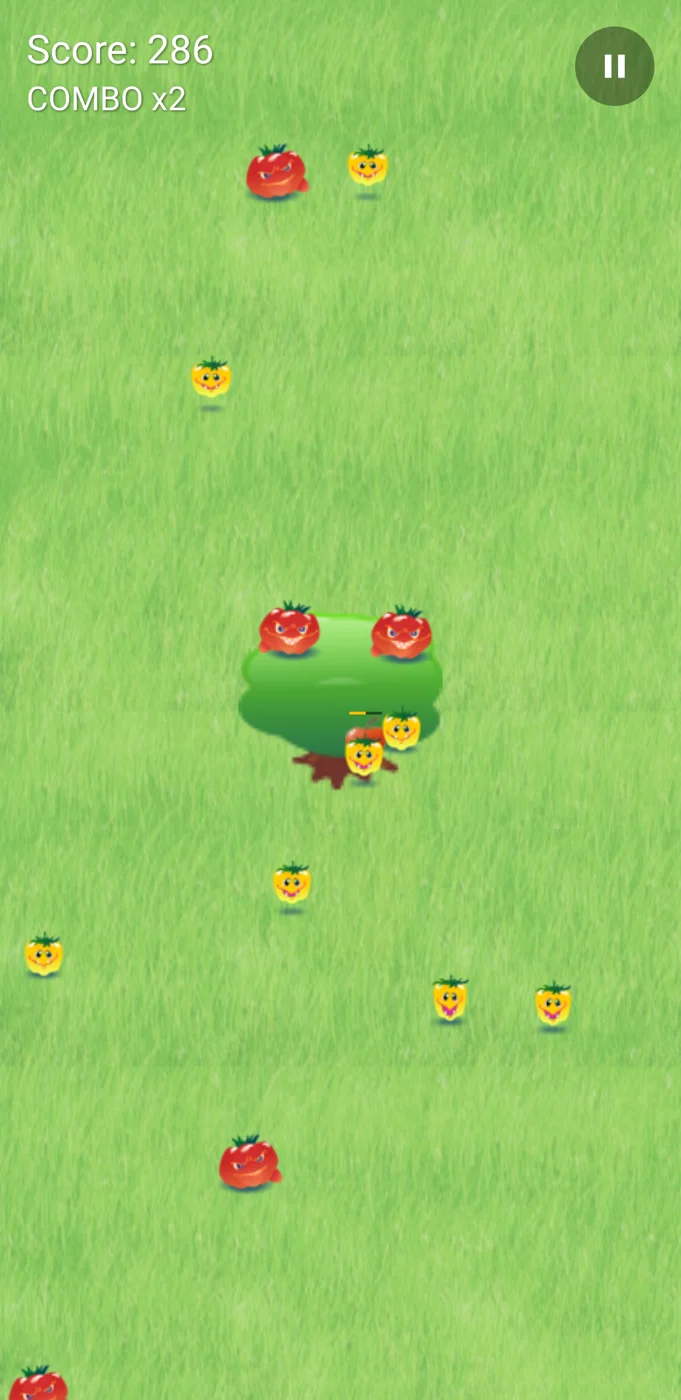
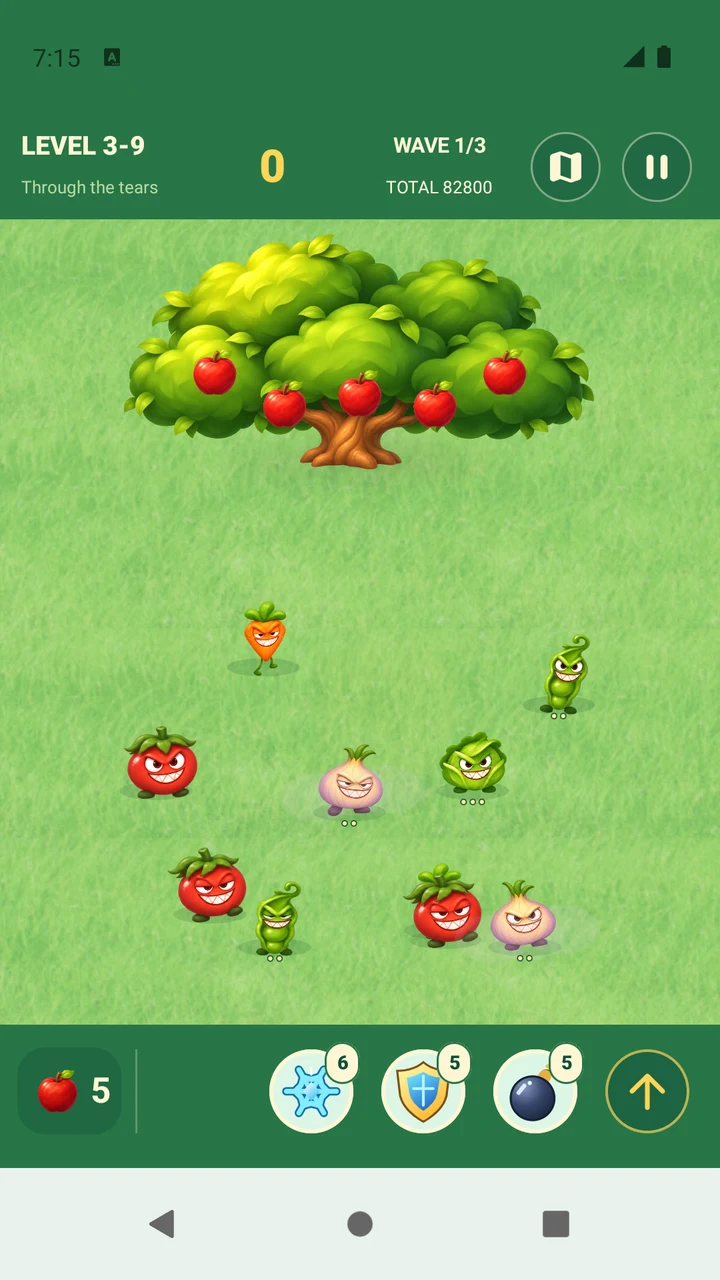
updates for angry vegetables project

diff --git a/index.html b/index.html
@@ -1,2 +1,2 @@
 <!doctype html>
-<html lang="en"><head><meta charset="utf-8"><meta name="viewport" content="width=device-width, initial-scale=1"><title>Small apps. Everyday joy. — Apps by Nadya</title><meta name="description" content="Explore Purrfect Cat Tangle, Magic Garden: Picture Puzzles, FitMe, Angry Vegetables, Tvoj Bazar and Cute Animal Tile Puzzle. Mobile apps and games by independent developer Nadya Bryzgalova."><meta name="theme-color" content="#f8f7f2"><link rel="icon" type="image/svg+xml" href="assets/favicon.svg"><link rel="stylesheet" href="style.css"></head><body><a class="skip" href="#main">Skip to content</a><header class="wrap header"><a class="brand" href="index.html"><span class="brand-mark">n.</span> apps by nadya<span class="brand-dot">✳</span></a><nav aria-label="Main navigation"><a href="index.html#apps">The apps</a><a href="index.html#about">About</a><a href="#support">Support <span aria-hidden="true">↗</span></a></nav></header><main id="main" class="wrap"><section class="hero"><p class="eyebrow"><span class="tiny-dot"></span> INDEPENDENTLY MADE. PERSONALLY CARED FOR.</p><h1>A little useful.<br>A little playful.<span class="hero-star" aria-hidden="true">✳</span></h1><div class="hero-bottom"><p>Apps for everyday life. Games for a little escape. <br>Made by me, Nadya. Ready to become part of your day.</p><a class="round-link" href="#apps" aria-label="Explore the apps">↓</a></div></section><section id="apps" class="apps"><div class="section-title"><h2>Find your next little favourite.</h2><span>06 APPS & GAMES</span></div><div class="grid"><article class="card peach"><div class="card-top"><img class="app-icon" src="assets/purrfect-cat-tangle-icon.webp" width="72" height="72" alt=""><span class="platform">Android &amp; iOS</span></div><p class="eyebrow">UNTANGLE TAILS. MAKE ROOM FOR A NAP.</p><h3><a href="purrfect-cat-tangle.html">Purrfect Cat Tangle</a></h3><p>Move cats between cushions, untangle colorful tails and solve your way to a cozy catnap.</p><a class="text-link" href="purrfect-cat-tangle.html">Meet Purrfect Cat Tangle <span aria-hidden="true">↗</span></a><div class="card-preview"><img src="assets/purrfect-cat-tangle-untangle.webp" alt="Two cats with tangled tails in Purrfect Cat Tangle" width="720" height="1280" loading="lazy"></div></article><article class="card green"><div class="card-top"><img class="app-icon" src="assets/magic-garden-icon.webp" width="72" height="72" alt=""><span class="platform">Android &amp; iOS</span></div><p class="eyebrow">A LITTLE PUZZLE, A LITTLE SPRING</p><h3><a href="magic-garden.html">Magic Garden: Picture Puzzles</a></h3><p>Swap picture tiles, discover 20 chapters and bring a quiet winter garden into bloom.</p><a class="text-link" href="magic-garden.html">Meet Magic Garden <span aria-hidden="true">↗</span></a><div class="card-preview"><img src="assets/magic-garden-magnolia.webp" alt="Magnolia picture puzzle in Magic Garden" width="660" height="1434" loading="lazy"></div></article><article class="card green"><div class="card-top"><img class="app-icon" src="assets/fitme-icon.webp" width="72" height="72" alt=""><span class="platform">Android</span></div><p class="eyebrow">EVERYDAY WELLBEING</p><h3><a href="fitme.html">FitMe</a></h3><p>Keep track of meals, calories and macros in a simple diary that fits into your day.</p><a class="text-link" href="fitme.html">Meet FitMe <span aria-hidden="true">↗</span></a><div class="card-preview"><img src="assets/fitme-calorie-diary.webp" alt="Your day, at a glance in FitMe" width="280" height="580" loading="lazy"></div></article><article class="card peach"><div class="card-top"><img class="app-icon" src="assets/angry-vegetables-icon.webp" width="72" height="72" alt=""><span class="platform">Android</span></div><p class="eyebrow">A LITTLE ARCADE CHAOS</p><h3><a href="angry-vegetables.html">Angry Vegetables</a></h3><p>Tap, squash and defend your apple tree from an increasingly angry garden.</p><a class="text-link" href="angry-vegetables.html">Meet Angry Vegetables <span aria-hidden="true">↗</span></a><div class="card-preview"><img src="assets/angry-vegetables-gameplay.webp" alt="Defend your apples in Angry Vegetables" width="280" height="580" loading="lazy"></div></article><article class="card blue"><div class="card-top"><img class="app-icon" src="assets/tvoj-bazar-icon.webp" width="72" height="72" alt=""><span class="platform">Android</span></div><p class="eyebrow">LOCAL FINDS, NEW HOMES</p><h3><a href="tvoj-bazar.html">Tvoj Bazar</a></h3><p>Buy and sell everyday things in Montenegro. A local marketplace for your next find.</p><a class="text-link" href="tvoj-bazar.html">Meet Tvoj Bazar <span aria-hidden="true">↗</span></a><div class="card-preview"><img src="assets/tvoj-bazar-listings.webp" alt="Discover local listings in Tvoj Bazar" width="280" height="580" loading="lazy"></div></article><article class="card lavender"><div class="card-top"><img class="app-icon" src="assets/cute-animal-tile-puzzle-icon.webp" width="72" height="72" alt=""><span class="platform">Android & iOS</span></div><p class="eyebrow">A QUIET LITTLE CHALLENGE</p><h3><a href="cute-animal-tile-puzzle.html">Cute Animal Tile Puzzle</a></h3><p>Swap tiles, discover cute animals and take a puzzle break at your own pace.</p><a class="text-link" href="cute-animal-tile-puzzle.html">Meet Cute Animal Tile Puzzle <span aria-hidden="true">↗</span></a><div class="card-preview"><img src="assets/cute-animal-tile-puzzle-swap.webp" alt="Swap any two tiles in Cute Animal Tile Puzzle" width="280" height="580" loading="lazy"></div></article></div></section><section class="about" id="about"><div class="about-portrait"><img src="assets/nadya-portrait.jpg" width="360" height="410" alt="Nadya Bryzgalova" loading="lazy"></div><div><p class="eyebrow">HELLO, I'M NADYA</p><h2>One developer. A few different ideas.</h2><p>I’m an independent developer making mobile apps and games, published as NEK Games. Some help with everyday things. Others are just for the joy of playing. I build them, keep improving them, and read your feedback myself.</p></div></section><section class="support" id="support"><div><p class="eyebrow">A REAL PERSON, ON THE OTHER SIDE</p><h2>Need a hand?</h2><p>Questions, ideas or something not working? Write to me.<br>Include the app name, your device and what happened.</p></div><a class="button light" href="mailto:nekgames.ru@gmail.com?subject=an%20app%20support">nekgames.ru@gmail.com ↗</a></section></main><footer class="wrap footer"><span>© 2026 Nadya Bryzgalova · NEK Games</span><a href="mailto:nekgames.ru@gmail.com">Say hello ↗</a></footer></body></html>
+<html lang="en"><head><meta charset="utf-8"><meta name="viewport" content="width=device-width, initial-scale=1"><title>Small apps. Everyday joy. — Apps by Nadya</title><meta name="description" content="Explore Purrfect Cat Tangle, Magic Garden: Picture Puzzles, FitMe, Angry Vegetables, Tvoj Bazar and Cute Animal Tile Puzzle. Mobile apps and games by independent developer Nadya Bryzgalova."><meta name="theme-color" content="#f8f7f2"><link rel="icon" type="image/svg+xml" href="assets/favicon.svg"><link rel="stylesheet" href="style.css"></head><body><a class="skip" href="#main">Skip to content</a><header class="wrap header"><a class="brand" href="index.html"><span class="brand-mark">n.</span> apps by nadya<span class="brand-dot">✳</span></a><nav aria-label="Main navigation"><a href="index.html#apps">The apps</a><a href="index.html#about">About</a><a href="#support">Support <span aria-hidden="true">↗</span></a></nav></header><main id="main" class="wrap"><section class="hero"><p class="eyebrow"><span class="tiny-dot"></span> INDEPENDENTLY MADE. PERSONALLY CARED FOR.</p><h1>A little useful.<br>A little playful.<span class="hero-star" aria-hidden="true">✳</span></h1><div class="hero-bottom"><p>Apps for everyday life. Games for a little escape. <br>Made by me, Nadya. Ready to become part of your day.</p><a class="round-link" href="#apps" aria-label="Explore the apps">↓</a></div></section><section id="apps" class="apps"><div class="section-title"><h2>Find your next little favourite.</h2><span>06 APPS & GAMES</span></div><div class="grid"><article class="card peach"><div class="card-top"><img class="app-icon" src="assets/purrfect-cat-tangle-icon.webp" width="72" height="72" alt=""><span class="platform">Android &amp; iOS</span></div><p class="eyebrow">UNTANGLE TAILS. MAKE ROOM FOR A NAP.</p><h3><a href="purrfect-cat-tangle.html">Purrfect Cat Tangle</a></h3><p>Move cats between cushions, untangle colorful tails and solve your way to a cozy catnap.</p><a class="text-link" href="purrfect-cat-tangle.html">Meet Purrfect Cat Tangle <span aria-hidden="true">↗</span></a><div class="card-preview"><img src="assets/purrfect-cat-tangle-untangle.webp" alt="Two cats with tangled tails in Purrfect Cat Tangle" width="720" height="1280" loading="lazy"></div></article><article class="card green"><div class="card-top"><img class="app-icon" src="assets/magic-garden-icon.webp" width="72" height="72" alt=""><span class="platform">Android &amp; iOS</span></div><p class="eyebrow">A LITTLE PUZZLE, A LITTLE SPRING</p><h3><a href="magic-garden.html">Magic Garden: Picture Puzzles</a></h3><p>Swap picture tiles, discover 20 chapters and bring a quiet winter garden into bloom.</p><a class="text-link" href="magic-garden.html">Meet Magic Garden <span aria-hidden="true">↗</span></a><div class="card-preview"><img src="assets/magic-garden-magnolia.webp" alt="Magnolia picture puzzle in Magic Garden" width="660" height="1434" loading="lazy"></div></article><article class="card peach"><div class="card-top"><img class="app-icon" src="assets/angry-vegetables-icon.webp" width="72" height="72" alt=""><span class="platform">Android · iOS in review</span></div><p class="eyebrow">A LITTLE ARCADE CHAOS</p><h3><a href="angry-vegetables.html">Angry Vegetables: Tap &amp; Defend</a></h3><p>Tap to smash veggies, save your apples, and conquer 50 arcade defense levels.</p><a class="text-link" href="angry-vegetables.html">Meet Angry Vegetables <span aria-hidden="true">↗</span></a><div class="card-preview"><img src="assets/angry-vegetables-gameplay.webp" alt="Defend your apples in Angry Vegetables" width="280" height="580" loading="lazy"></div></article><article class="card green"><div class="card-top"><img class="app-icon" src="assets/fitme-icon.webp" width="72" height="72" alt=""><span class="platform">Android</span></div><p class="eyebrow">EVERYDAY WELLBEING</p><h3><a href="fitme.html">FitMe</a></h3><p>Keep track of meals, calories and macros in a simple diary that fits into your day.</p><a class="text-link" href="fitme.html">Meet FitMe <span aria-hidden="true">↗</span></a><div class="card-preview"><img src="assets/fitme-calorie-diary.webp" alt="Your day, at a glance in FitMe" width="280" height="580" loading="lazy"></div></article><article class="card blue"><div class="card-top"><img class="app-icon" src="assets/tvoj-bazar-icon.webp" width="72" height="72" alt=""><span class="platform">Android</span></div><p class="eyebrow">LOCAL FINDS, NEW HOMES</p><h3><a href="tvoj-bazar.html">Tvoj Bazar</a></h3><p>Buy and sell everyday things in Montenegro. A local marketplace for your next find.</p><a class="text-link" href="tvoj-bazar.html">Meet Tvoj Bazar <span aria-hidden="true">↗</span></a><div class="card-preview"><img src="assets/tvoj-bazar-listings.webp" alt="Discover local listings in Tvoj Bazar" width="280" height="580" loading="lazy"></div></article><article class="card lavender"><div class="card-top"><img class="app-icon" src="assets/cute-animal-tile-puzzle-icon.webp" width="72" height="72" alt=""><span class="platform">Android & iOS</span></div><p class="eyebrow">A QUIET LITTLE CHALLENGE</p><h3><a href="cute-animal-tile-puzzle.html">Cute Animal Tile Puzzle</a></h3><p>Swap tiles, discover cute animals and take a puzzle break at your own pace.</p><a class="text-link" href="cute-animal-tile-puzzle.html">Meet Cute Animal Tile Puzzle <span aria-hidden="true">↗</span></a><div class="card-preview"><img src="assets/cute-animal-tile-puzzle-swap.webp" alt="Swap any two tiles in Cute Animal Tile Puzzle" width="280" height="580" loading="lazy"></div></article></div></section><section class="about" id="about"><div class="about-portrait"><img src="assets/nadya-portrait.jpg" width="360" height="410" alt="Nadya Bryzgalova" loading="lazy"></div><div><p class="eyebrow">HELLO, I'M NADYA</p><h2>One developer. A few different ideas.</h2><p>I’m an independent developer making mobile apps and games, published as NEK Games. Some help with everyday things. Others are just for the joy of playing. I build them, keep improving them, and read your feedback myself.</p></div></section><section class="support" id="support"><div><p class="eyebrow">A REAL PERSON, ON THE OTHER SIDE</p><h2>Need a hand?</h2><p>Questions, ideas or something not working? Write to me.<br>Include the app name, your device and what happened.</p></div><a class="button light" href="mailto:nekgames.ru@gmail.com?subject=an%20app%20support">nekgames.ru@gmail.com ↗</a></section></main><footer class="wrap footer"><span>© 2026 Nadya Bryzgalova · NEK Games</span><a href="mailto:nekgames.ru@gmail.com">Say hello ↗</a></footer></body></html>

diff --git a/angry-vegetables.html b/angry-vegetables.html
@@ -1,2 +1,2 @@
 <!doctype html>
-<html lang="en"><head><meta charset="utf-8"><meta name="viewport" content="width=device-width, initial-scale=1"><title>Angry Vegetables — Apps by Nadya</title><meta name="description" content="Tap, squash and defend your apple tree from an increasingly angry garden."><meta name="theme-color" content="#f8f7f2"><link rel="icon" type="image/svg+xml" href="assets/favicon.svg"><link rel="stylesheet" href="style.css"></head><body><a class="skip" href="#main">Skip to content</a><header class="wrap header"><a class="brand" href="index.html"><span class="brand-mark">n.</span> apps by nadya<span class="brand-dot">✳</span></a><nav aria-label="Main navigation"><a href="index.html#apps">The apps</a><a href="index.html#about">About</a><a href="#support">Support <span aria-hidden="true">↗</span></a></nav></header><main id="main" class="wrap"><a class="back" href="index.html#apps">← All apps & games</a><section class="product-hero peach"><div><div class="product-id"><img class="app-icon" src="assets/angry-vegetables-icon.webp" width="72" height="72" alt=""><div><p class="eyebrow">Android</p><p>Angry Vegetables</p></div></div><h1>Small veggies.<br>Big trouble.</h1><p class="lede">Tap, squash and defend your apple tree from an increasingly angry garden.</p><div class="buttons"><a class="button" href="https://play.google.com/store/apps/details?id=com.nekgames.angryvegetablesremaster">Google Play <span aria-hidden="true">↗</span></a></div></div><img class="hero-phone" src="assets/angry-vegetables-gameplay.webp" alt="Defend your apples — Angry Vegetables"></section><section class="features" aria-label="Features"><div><span class="feature-number">01</span><h3>Tap to defend</h3><p>Squash approaching vegetables before they reach your apples.</p></div><div><span class="feature-number">02</span><h3>Keep the combo going</h3><p>Chain your taps for bonus points as the waves get tougher.</p></div><div><span class="feature-number">03</span><h3>One more round?</h3><p>Try to beat your own score or compete on the global leaderboard.</p></div></section><section class="screens"><p class="eyebrow">TAKE A LOOK AROUND</p><h2>A little preview.</h2><div class="gallery"><figure><img src="assets/angry-vegetables-gameplay.webp" alt="Defend your apples — Angry Vegetables" loading="lazy"><figcaption>Defend your apples</figcaption></figure><figure><img src="assets/angry-vegetables-menu.webp" alt="Jump into the garden — Angry Vegetables" loading="lazy"><figcaption>Jump into the garden</figcaption></figure><figure><img src="assets/angry-vegetables-game-over.webp" alt="Beat your last score — Angry Vegetables" loading="lazy"><figcaption>Beat your last score</figcaption></figure></div></section><section class="faq"><h2>Good to know.</h2><details><summary>How do I play?</summary><p>Tap the vegetables before they reach your apple tree. Chain your smashes to build combos.</p></details><details><summary>Does it get harder?</summary><p>Yes. Enemy waves become tougher as you survive longer.</p></details><details><summary>Where can I read the privacy policy?</summary><p><a href="https://docs.google.com/document/d/15HoHLl6D_thajAbehYDg-5SmEV5Ew1TaVd3z8HT08Uw">Read the Angry Vegetables Privacy Policy ↗</a></p></details></section><section class="support" id="support"><div><p class="eyebrow">A REAL PERSON, ON THE OTHER SIDE</p><h2>Need a hand?</h2><p>Questions, ideas or something not working? Write to me.<br>Include the app name, your device and what happened.</p></div><a class="button light" href="mailto:nekgames.ru@gmail.com?subject=Angry%20Vegetables%20support">nekgames.ru@gmail.com ↗</a></section><p class="policy-link"><a href="https://docs.google.com/document/d/15HoHLl6D_thajAbehYDg-5SmEV5Ew1TaVd3z8HT08Uw">Angry Vegetables · Privacy Policy ↗</a></p></main><footer class="wrap footer"><span>© 2026 Nadya Bryzgalova · NEK Games</span><a href="mailto:nekgames.ru@gmail.com">Say hello ↗</a></footer></body></html>
+<html lang="en"><head><meta charset="utf-8"><meta name="viewport" content="width=device-width, initial-scale=1"><title>Angry Vegetables: Tap &amp; Defend — Apps by Nadya</title><meta name="description" content="Tap to smash veggies, save your apples, and conquer 50 arcade defense levels."><meta name="theme-color" content="#f8f7f2"><link rel="icon" type="image/svg+xml" href="assets/favicon.svg"><link rel="stylesheet" href="style.css"></head><body><a class="skip" href="#main">Skip to content</a><header class="wrap header"><a class="brand" href="index.html"><span class="brand-mark">n.</span> apps by nadya<span class="brand-dot">✳</span></a><nav aria-label="Main navigation"><a href="index.html#apps">The apps</a><a href="index.html#about">About</a><a href="#support">Support <span aria-hidden="true">↗</span></a></nav></header><main id="main" class="wrap"><a class="back" href="index.html#apps">← All apps & games</a><section class="product-hero peach"><div><div class="product-id"><img class="app-icon" src="assets/angry-vegetables-icon.webp" width="72" height="72" alt=""><div><p class="eyebrow">Android · iOS in review</p><p>Angry Vegetables: Tap &amp; Defend</p></div></div><h1>Small veggies.<br>Big trouble.</h1><p class="lede">Tap to smash veggies, save your apples, and conquer 50 arcade defense levels.</p><div class="buttons"><a class="button" href="https://play.google.com/store/apps/details?id=com.nekgames.angryvegetablesremaster">Google Play <span aria-hidden="true">↗</span></a><a class="button" href="https://apps.apple.com/us/app/angry-vegetables-tap-defend/id6831074131">App Store · in review</a></div><p>Available on Android. The iOS version is currently in App Store review.</p></div><img class="hero-phone" src="assets/angry-vegetables-gameplay.webp" alt="Defend your apples — Angry Vegetables"></section><section class="features" aria-label="Features"><div><span class="feature-number">01</span><h3>Tap to defend</h3><p>Protect five apples across 50 levels in five chapters, with giant bosses and a final Pumpkin showdown.</p></div><div><span class="feature-number">02</span><h3>Turn the tide</h3><p>Trigger explosive pepper chain reactions and unlock Freeze, Bomb, and Shield boosters.</p></div><div><span class="feature-number">03</span><h3>Chase three stars</h3><p>Build combos, protect more apples, and replay battles to improve your personal best and earn three stars.</p></div></section><section class="screens"><p class="eyebrow">TAKE A LOOK AROUND</p><h2>A little preview.</h2><div class="gallery"><figure><img src="assets/angry-vegetables-01-save-the-apples.webp" alt="Tap vegetables before they reach the apple tree" width="720" height="1280" loading="lazy"><figcaption>Save the apples</figcaption></figure><figure><img src="assets/angry-vegetables-02-chain-reaction.webp" alt="Explosive peppers clear a crowd of vegetables" width="720" height="1280" loading="lazy"><figcaption>Start a chain reaction</figcaption></figure><figure><img src="assets/angry-vegetables-03-freeze.webp" alt="Freeze booster stops the vegetable swarm" width="720" height="1280" loading="lazy"><figcaption>Freeze the rush</figcaption></figure><figure><img src="assets/angry-vegetables-04-giants.webp" alt="Battle the giant Onion Baron chapter boss" width="720" height="1280" loading="lazy"><figcaption>Face the giants</figcaption></figure><figure><img src="assets/angry-vegetables-05-final-boss.webp" alt="Face the final Pumpkin boss" width="720" height="1280" loading="lazy"><figcaption>Beat the Pumpkin boss</figcaption></figure><figure><img src="assets/angry-vegetables-06-campaign.webp" alt="Follow the campaign map through five chapters" width="720" height="1280" loading="lazy"><figcaption>50 levels. Five chapters.</figcaption></figure></div></section><section class="faq"><h2>Good to know.</h2><details><summary>How do I play?</summary><p>Tap the vegetables before they reach your apple tree. Chain your smashes to build combos.</p></details><details><summary>Does it get harder?</summary><p>Yes. Progress through five chapters with tougher waves, charging carrots, splitting pea pods, and giant vegetable bosses.</p></details><details><summary>Is it available on iOS?</summary><p>Available on Android. The iOS version is currently in App Store review. <a href="https://apps.apple.com/us/app/angry-vegetables-tap-defend/id6831074131">App Store listing</a>.</p></details><details><summary>Where can I read the privacy policy?</summary><p><a href="https://docs.google.com/document/d/15HoHLl6D_thajAbehYDg-5SmEV5Ew1TaVd3z8HT08Uw">Read the Angry Vegetables Privacy Policy ↗</a></p></details></section><section class="support" id="support"><div><p class="eyebrow">A REAL PERSON, ON THE OTHER SIDE</p><h2>Need a hand?</h2><p>Questions, ideas or something not working? Write to me.<br>Include the app name, your device and what happened.</p></div><a class="button light" href="mailto:nekgames.ru@gmail.com?subject=Angry%20Vegetables%20support">nekgames.ru@gmail.com ↗</a></section><p class="policy-link"><a href="https://docs.google.com/document/d/15HoHLl6D_thajAbehYDg-5SmEV5Ew1TaVd3z8HT08Uw">Angry Vegetables · Privacy Policy ↗</a></p></main><footer class="wrap footer"><span>© 2026 Nadya Bryzgalova · NEK Games</span><a href="mailto:nekgames.ru@gmail.com">Say hello ↗</a></footer></body></html>

diff --git a/more-apps/android.html b/more-apps/android.html
@@ -4,7 +4,7 @@
   <meta charset="utf-8">
   <meta name="viewport" content="width=device-width, initial-scale=1, viewport-fit=cover">
   <title>More games for Android — NEK Games</title>
-  <meta name="description" content="Discover three puzzle games by NEK Games for Android. Find your next little puzzle break.">
+  <meta name="description" content="Discover four puzzle and arcade games by NEK Games for Android.">
   <meta name="theme-color" content="#f8f7f3">
   <link rel="icon" type="image/svg+xml" href="../assets/favicon.svg">
   <link rel="stylesheet" href="styles.css">
@@ -52,10 +52,20 @@
         </div>
         <div class="preview"><img src="../assets/cute-animal-tile-puzzle-swap.webp" alt="An animal picture puzzle" width="280" height="580" loading="lazy"></div>
       </article>
+      <article class="app-card angry-vegetables">
+        <div class="app-info">
+          <img class="app-icon" src="../assets/angry-vegetables-icon.webp" width="64" height="64" alt="">
+          <p class="category">Arcade defense</p>
+          <h3>Angry Vegetables: Tap &amp; Defend</h3>
+          <p class="description">Tap to smash veggies, save your apples, and conquer 50 arcade defense levels.</p>
+          <a class="store-link" href="https://play.google.com/store/apps/details?id=com.nekgames.angryvegetablesremaster">Google Play</a>
+        </div>
+        <div class="preview"><img src="../assets/angry-vegetables-gameplay.webp" alt="Defend the apple tree from a wave of vegetables" loading="lazy"></div>
+      </article>
         </div>
       </section>
     </main>
-    <footer><span>Made by Nadya · 3 games for Android</span><a href="mailto:nekgames.ru@gmail.com">Get in touch <span aria-hidden="true">↗</span></a></footer>
+    <footer><span>Made by Nadya · 4 games for Android</span><a href="mailto:nekgames.ru@gmail.com">Get in touch <span aria-hidden="true">↗</span></a></footer>
   </div>
 </body>
 </html>
